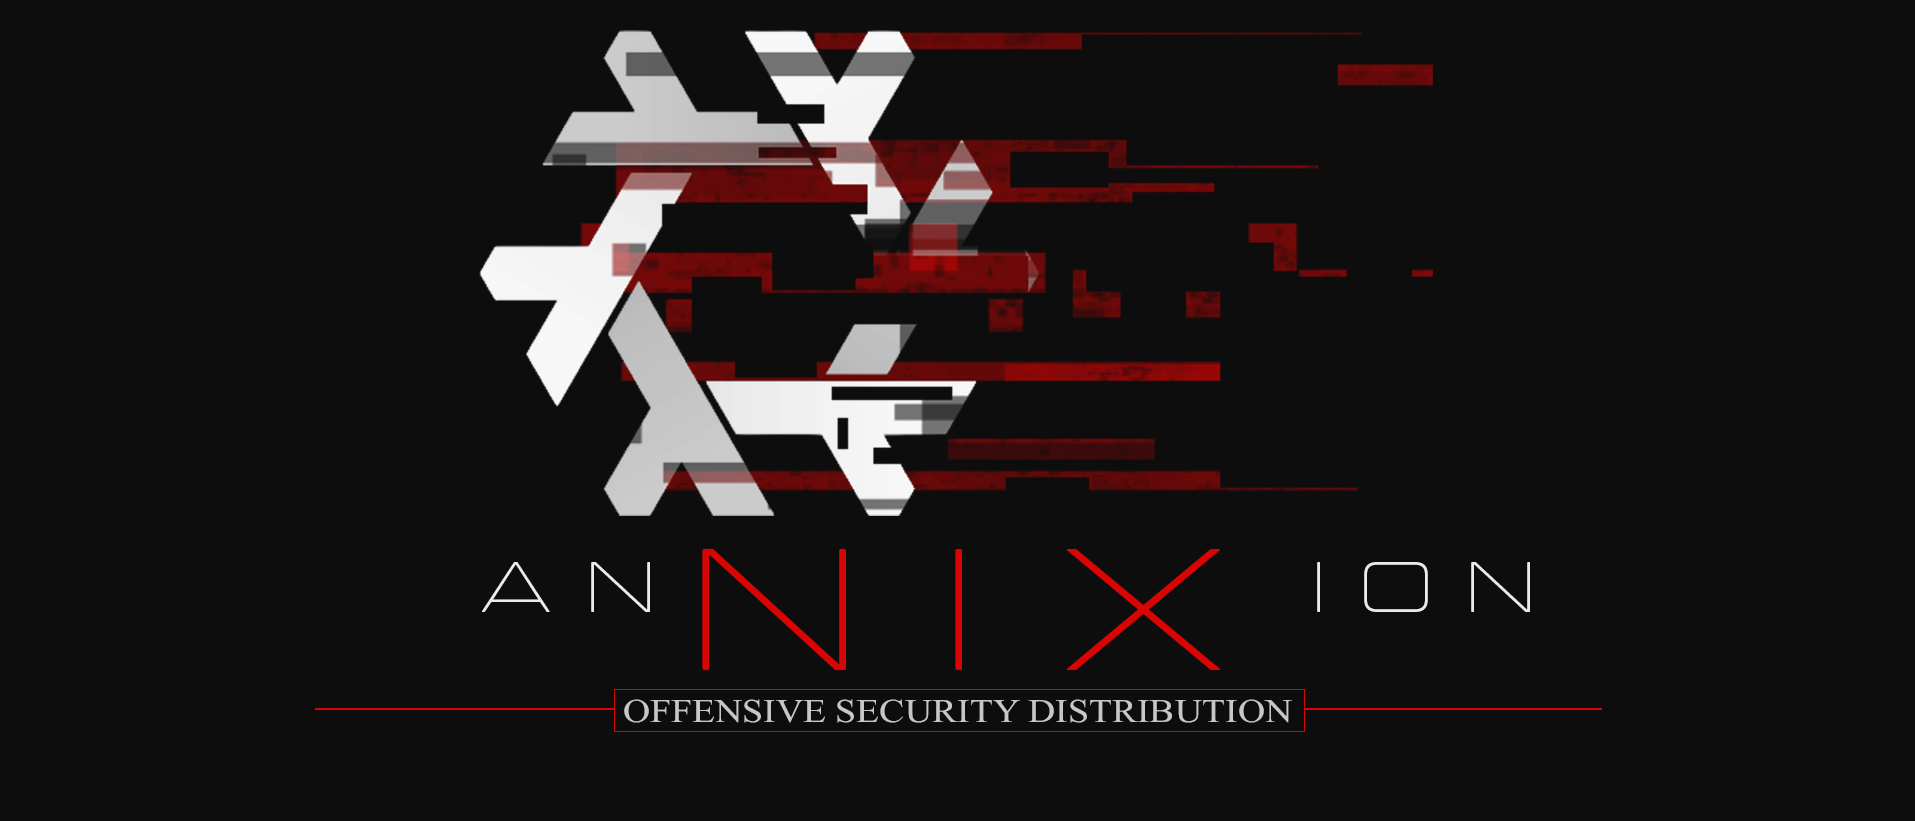
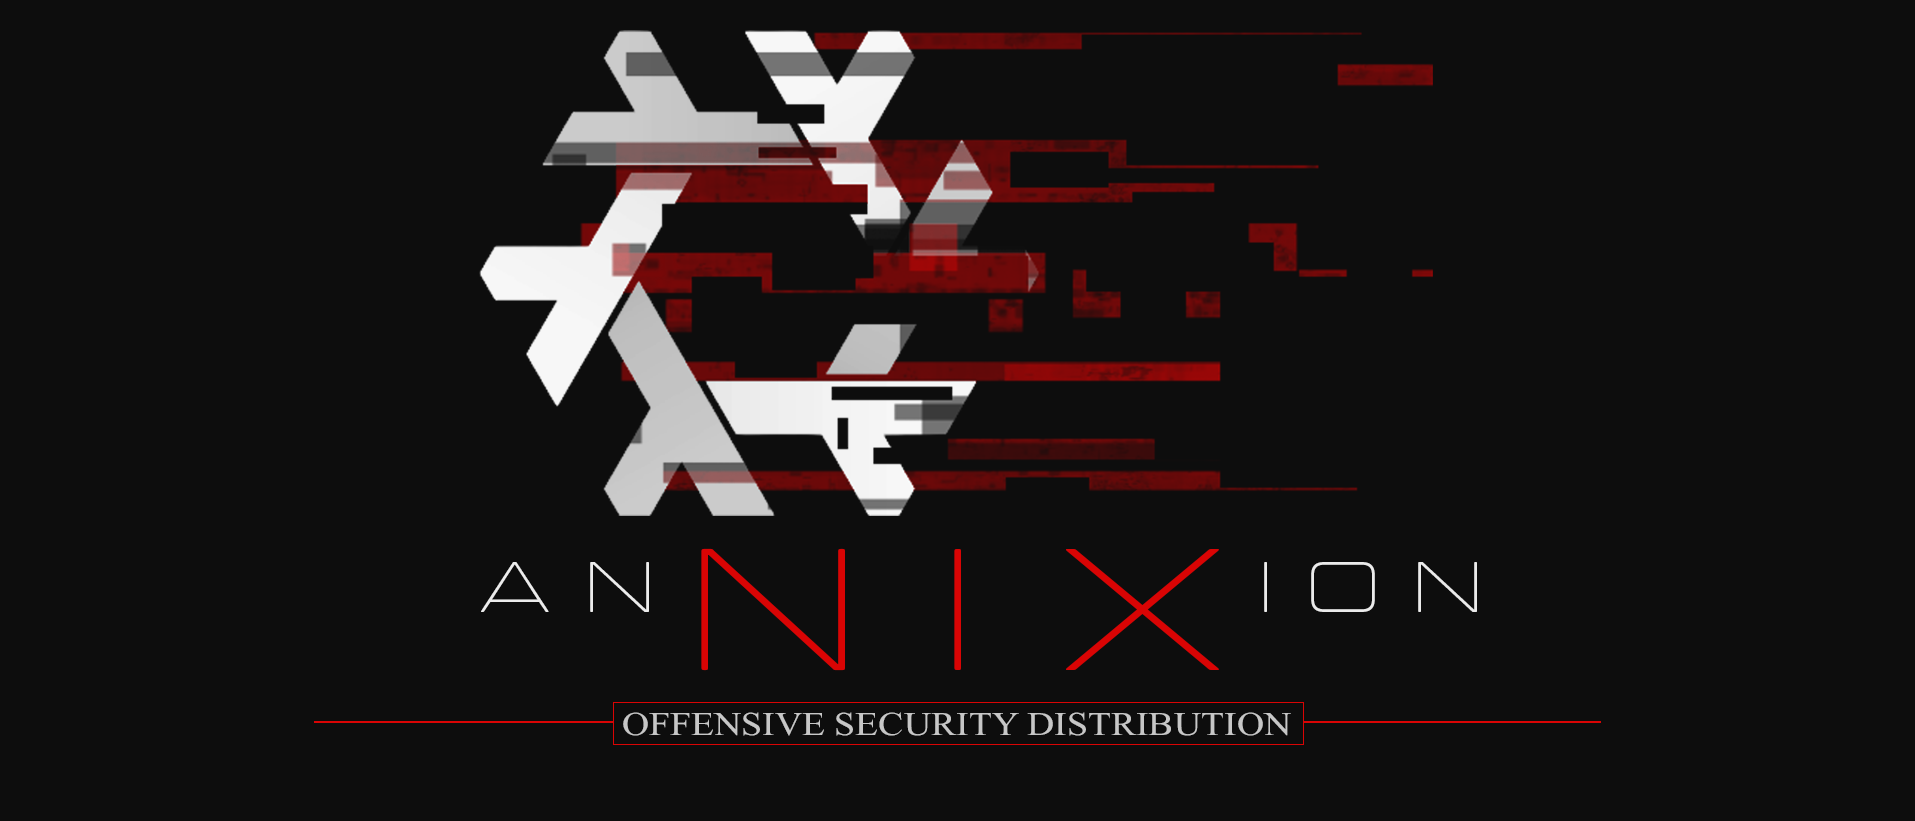
Switched to custom CSS for visuals

diff --git a/ROADMAP.md b/ROADMAP.md
@@ -120,10 +120,12 @@ Goal: Firefox ships with three pre-configured profiles selectable from launch.
 - [x] Desktop launchers for each profile via `xdg.desktopEntries`
 - [ ] HTTP proxy pre-configured (127.0.0.1:8080) in redteam profile settings
 - [ ] ResistFingerprinting flags wired in osint profile settings
-- [ ] Per-profile visual identity via ShyFox UI theming — each browser must be immediately distinguishable by its UI color at a glance:
-  - [ ] Red Team — black/red chrome
-  - [ ] OSINT — dark/yellow chrome
-  - [ ] Puppet Master — dark/green chrome
+- [ ] Per-profile visual identity via custom `userChrome.css` (Nord palette, cold/minimal) — each browser must be immediately distinguishable by its UI color at a glance:
+  - [ ] Red Team — Nord Aurora red (`#bf616a`) accent on tab line and nav-bar border
+  - [ ] OSINT — Nord Aurora yellow (`#ebcb8b`) accent on tab line and nav-bar border
+  - [ ] Puppet Master — Nord Aurora green (`#a3be8c`) accent + prominent container tab strip (4 px, always visible)
+- [ ] Developer tools button pinned to toolbar in all profiles (technical area, separated by a visual divider)
+- [ ] Firefox Account button removed from all profiles
 
 ---
 